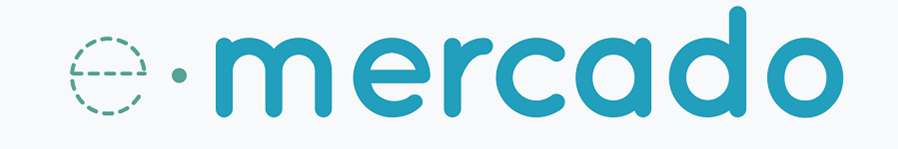
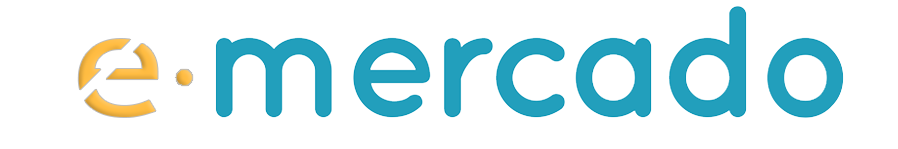
new brand img uploaded & navbar color changed

diff --git a/home.html b/home.html
@@ -12,7 +12,7 @@
 </head>
 
 <body>
-  <nav class="navbar navbar-expand-lg navbar-dark bg-dark p-1">
+  <nav class="navbar navbar-expand-lg navbar-dark p-1" style="background-color: #06121E ;">
     <div class="container">
       <button class="navbar-toggler" type="button" data-bs-toggle="collapse" data-bs-target="#navbarNav"
         aria-controls="navbarNav" aria-expanded="false" aria-label="Toggle navigation">
